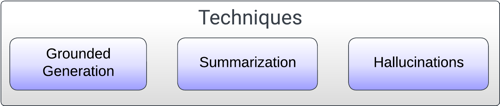
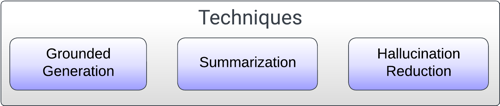
Update topic from feedback
Made updates based on feedback

Changed region(s): [[0.75, 0.4528, 0.93, 0.7358]]

diff --git a/www/docs/key-concepts.md b/www/docs/key-concepts.md
@@ -6,54 +6,52 @@ sidebar_label: Key Concepts in Gen AI
 
 import {Config} from './definitions.md';
 
-Generative AI is a rapidly evolving field that leverages advanced 
-technologies to create different types of content and insights. At the core 
-lies the AI Architecture, a complex structure that defines the various 
-components of an AI system. This intelligent architecture is not standalone 
-because it intricately connects with several techniques and query mechanisms 
-to perform tasks efficiently.
-
-This section describes common terminology associated with Generative 
+This section describes common terminology associated with Generative (Gen AI)
 AI and how these concepts connect or complement each other on the <Config v="names.product"/>
 platform.
 
-## AI Architecture
+## Generative AI Architecture
 
-AI Architecture refers to the underlying structure of artificial intelligence 
-systems. This architecture contains many important components that enable AI 
-to function effectively:
+Generative AI architecture refers to the underlying structure that contains the 
+important components that enable this technology to function effectively:
 
 ![AI Architecture](/img/ai_architecture.png)
 
 ### Large Language Models (LLMs)
 
-Large Language Models (LLMs) provide language prediction that use machine 
-learning to generate human-like text. <Config v="names.product"/> leverages LLMs to understand 
-and respond to queries with precision. 
+Large Language Models (LLMs) represent deep learning algorithms that mimic the 
+way humans interpreet, translate, and create content. <Config v="names.product"/> leverages LLMs 
+to provide helpful answers to questions.
 
 ### Vector Databases
 
 Vectors represent objects in a multi-dimensional space, enabling efficient 
-similarity search. These databases enable rapid retrieval of large data sets.
+similarity search. <Config v="names.product"/> uses vector databases to retrieve the 
+data it needs to accurately answer questions.
 
 ### Semantic Search
 
-Semantic search understands the intent and contextual meaning of a 
-search to generate more accurate results. This approach is different 
-from traditional, keyword-based search.
+Whereas traditional, keyword-based search is limited to results 
+that literally match the words in a query, semantic search identifies 
+the intent and contextual meaning of a query. Vector databases 
+enable semantic search.
 
 [Learn about Semantic Search](/docs/common-use-cases/semantic-search/semantic-search-overview)
 
 ### Neural Search
 
-Neural search leverages neural networks and machine learning to improve search 
-experiences by creating more contextual and relevant results.
+Neural search utilizes neural networks, often deep learning models, 
+to understand the context of a query. It goes beyond the rule-based 
+approach of semantic search as an advanced form of Natural Language 
+Processing (NLP). Neural search is general more resource-intensive than 
+semantic search. However, you can combine the strengths of both methods. 
+
 
 ### Hybrid Search
 
 Hybrid search combines semantic and keyword search as a balanced approach to 
-information retrieval. Sometimes users simply need to search for a specific 
-serial number or product code.
+information retrieval. Some data is most meaningful when interpreted 
+literally, such as serial numbers, dates, or product codes.
 
 ### Cross-Language Search
 
@@ -94,15 +92,14 @@ By leveraging machine learning models, summarizations adapt to different
 contexts and content types, while preserving the essence of the original 
 data
 
-### Hallucinations
+### Hallucination Reduction
 
-Hallucinations occur when AI generates incorrect information that was not 
-present in the input or training data. Simply put, chatbots tend to make 
-things up. Hallucinations appear as made-up facts, events, or details that 
-are simply not true. They occur when the AI model tries to fill in gaps by 
-attempting to create a coherent narrative. Thanks to Grounded 
-Generation, <Config v="names.product"/> reduces the risk of hallucinations 
-dramatically.
+Hallucinations occur when Generative AI creates incorrect information. This 
+generateve information was not present in the input or training data. 
+Hallucinations appear as made-up facts, events, or details that are simply 
+not true. They occur when the Generative AI model tries to fill in gaps by 
+attempting to create a coherent narrative. Thanks to Grounded Generation, <Config v="names.product"/> reduces 
+the risk of hallucinations dramatically.
 
 ## Query Mechanisms
 
